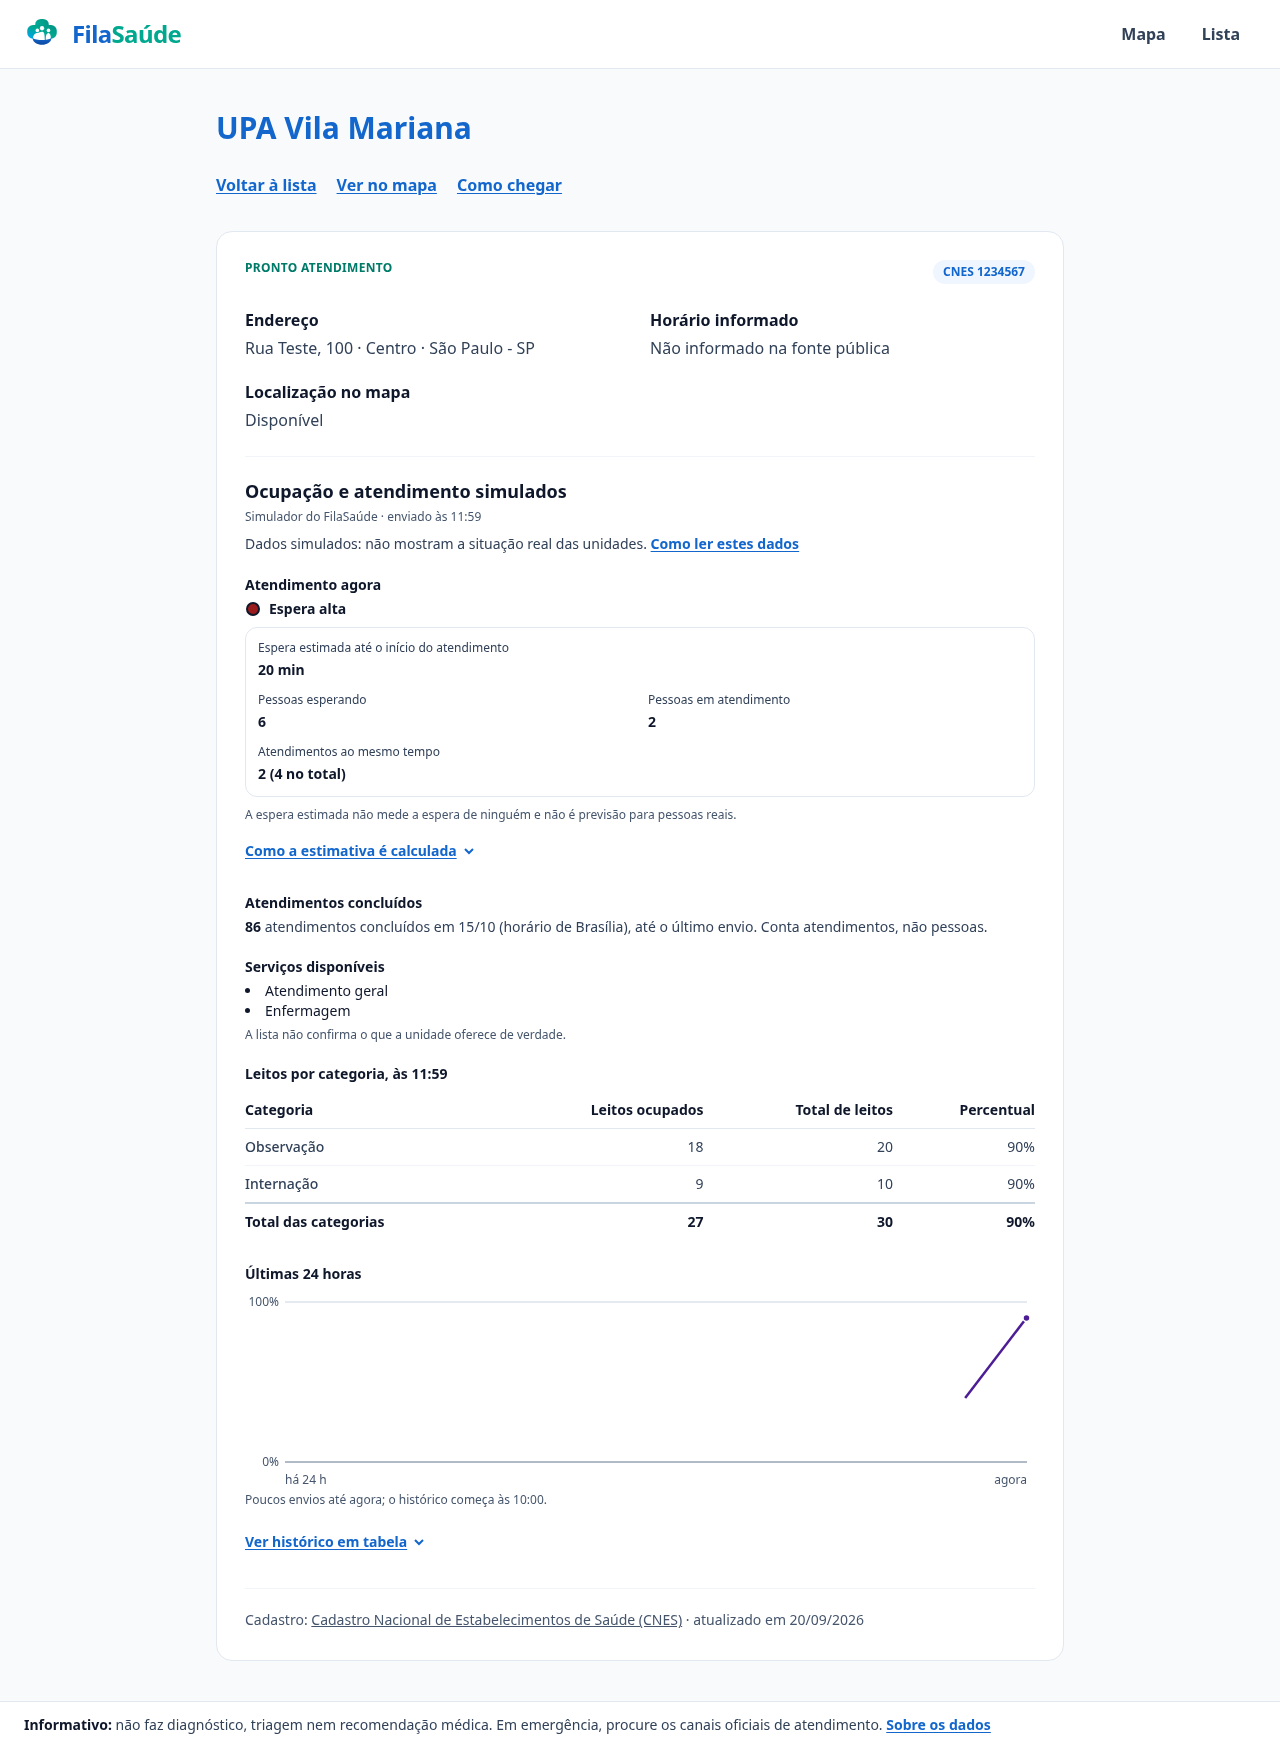
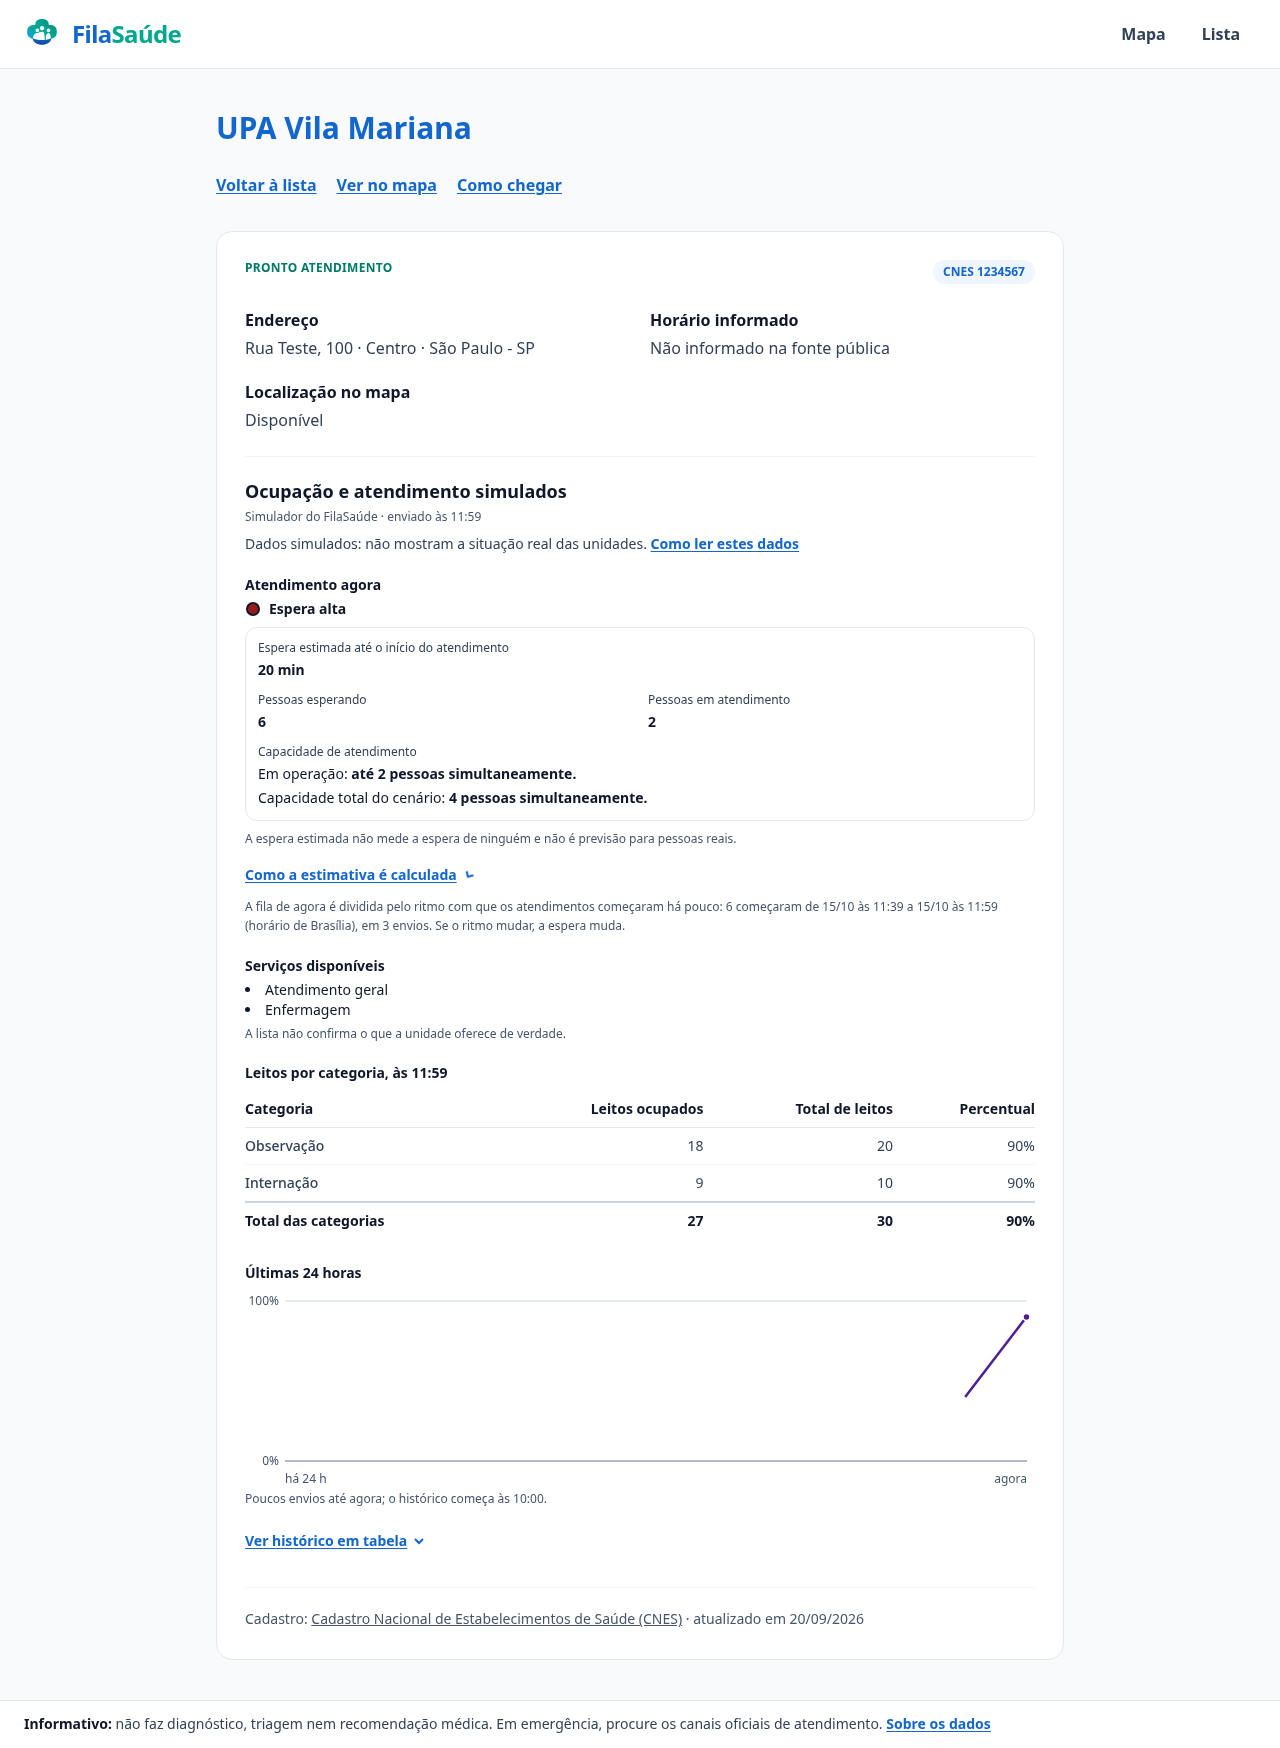
fix(web): esclarece capacidade ativa e total do cenário

diff --git a/e2e/occupancy-layer.spec.ts b/e2e/occupancy-layer.spec.ts
@@ -262,9 +262,7 @@ test("mantém o popup do norte visível ao abrir e ligar a ocupação", async ({
   expect(await panePosition()).toBe(before);
   const panel = page.getByRole("region", { name: "Controles do mapa" });
   await panel.getByText("Ocupação simulada", { exact: true }).click();
-  await expect(
-    popup.getByText("Espera alta", { exact: true }),
-  ).toBeVisible();
+  await expect(popup.getByText("Espera alta", { exact: true })).toBeVisible();
   await expect
     .poll(async () => {
       const box = await popup.boundingBox();
@@ -348,9 +346,7 @@ for (const viewport of [
     });
     await panel.getByText("Simulação", { exact: true }).click();
     await expect(toggle).toBeChecked();
-    await expect(
-      panel.getByText("Dados simulados, não reais."),
-    ).toBeVisible();
+    await expect(panel.getByText("Dados simulados, não reais.")).toBeVisible();
     const open = panel.getByRole("button", {
       name: /^Filtros e legenda/,
     });
@@ -491,9 +487,7 @@ for (const viewport of [
     await toggle.focus();
     await page.keyboard.press("Space");
     await expect(toggle).toBeChecked();
-    await expect(
-      panel.getByText("Dados simulados, não reais."),
-    ).toBeVisible();
+    await expect(panel.getByText("Dados simulados, não reais.")).toBeVisible();
 
     const after = await panel.boundingBox();
     const map = await page.locator(".leaflet-container").boundingBox();
@@ -924,7 +918,9 @@ test("SSE atualiza o histórico da unidade mesmo quando o estado atual não muda
     section.locator("details").getByRole("cell", { name: "20%", exact: true }),
   ).toBeVisible();
   expect(reads).toBeGreaterThan(beforeUpdate);
-  await expect(section.getByText("Espera alta", { exact: true }).first()).toBeVisible();
+  await expect(
+    section.getByText("Espera alta", { exact: true }).first(),
+  ).toBeVisible();
 });
 
 for (const viewport of [
@@ -1038,7 +1034,9 @@ test("a lista mobile mostra resultados e permite expandir filtros secundários",
   });
   await expect(expand).toHaveAttribute("aria-expanded", "false");
   await expect(
-    page.getByText("Dados simulados: não mostram a situação real das unidades."),
+    page.getByText(
+      "Dados simulados: não mostram a situação real das unidades.",
+    ),
   ).toBeVisible();
   const simulated = page.getByRole("checkbox", {
     name: "Mostrar só unidades com ocupação simulada",
@@ -1387,7 +1385,9 @@ for (const viewport of [
     await expect(unknown.locator('svg circle[fill="#94a3b8"]')).toHaveCount(1);
     await card.getByRole("link", { name: /Ver no mapa/ }).click();
     const popup = page.locator(".leaflet-popup");
-    await expect(popup.getByText("Espera baixa", { exact: true })).toBeVisible();
+    await expect(
+      popup.getByText("Espera baixa", { exact: true }),
+    ).toBeVisible();
     await expect(
       popup.getByText("Esperando 0 · Em atendimento 2"),
     ).toBeVisible();
@@ -1432,14 +1432,10 @@ for (const width of [320, 390, 844, 1280]) {
     const card = page
       .getByRole("article")
       .filter({ hasText: "UPA Vila Mariana" });
-    await expect(
-      card.getByText("Espera estimada: 20 min"),
-    ).toBeVisible();
+    await expect(card.getByText("Espera estimada: 20 min")).toBeVisible();
     await card.getByRole("link", { name: /Ver no mapa/ }).click();
     const popup = page.locator(".leaflet-popup");
-    await expect(
-      popup.getByText("Espera estimada: 20 min"),
-    ).toBeVisible();
+    await expect(popup.getByText("Espera estimada: 20 min")).toBeVisible();
     await popup.getByRole("link", { name: /Ver detalhes/ }).click();
     const section = page.getByRole("region", {
       name: "Ocupação e atendimento simulados",
@@ -1453,12 +1449,21 @@ for (const width of [320, 390, 844, 1280]) {
       }),
     });
     await expect(row.getByRole("definition")).toHaveText("20 min");
-    const simultaneous = section.locator("dl > div").filter({
-      has: page.getByText("Atendimentos ao mesmo tempo", { exact: true }),
-    });
-    await expect(simultaneous.getByRole("definition")).toHaveText(
-      "2 (4 no total)",
-    );
+    await expect(
+      section.getByText("Capacidade de atendimento", { exact: true }),
+    ).toBeVisible();
+    await expect(
+      section
+        .getByText("Em operação:", { exact: true })
+        .locator("..")
+        .getByRole("definition"),
+    ).toHaveText("até 2 pessoas simultaneamente.");
+    await expect(
+      section
+        .getByText("Capacidade total do cenário:", { exact: true })
+        .locator("..")
+        .getByRole("definition"),
+    ).toHaveText("4 pessoas simultaneamente.");
     await expect(
       section.getByText("Serviços disponíveis", { exact: true }),
     ).toBeVisible();
@@ -1484,6 +1489,10 @@ for (const width of [320, 390, 844, 1280]) {
         () => document.documentElement.scrollWidth <= innerWidth,
       ),
     ).toBe(true);
+    await page.screenshot({
+      path: `/tmp/filasaude-capacidade-pagina-${width}.png`,
+      fullPage: true,
+    });
     await testInfo.attach(`indicadores-${width}`, {
       body: await section.screenshot({
         path: `/tmp/filasaude-indicadores-${width}.png`,
@@ -1518,16 +1527,12 @@ test("expiração remove a estimativa dos resumos e indisponibilidade é explíc
   const card = page
     .getByRole("article")
     .filter({ hasText: "UPA Vila Mariana" });
-  await expect(
-    card.getByText("Espera estimada: 20 min"),
-  ).toBeVisible();
+  await expect(card.getByText("Espera estimada: 20 min")).toBeVisible();
   await emitOccupancyEvent(page, "occupancy.updated", {
     data: [{ ...current, confirmation: "stale" }],
     metadata,
   });
-  await expect(
-    card.getByText("Espera estimada: 20 min"),
-  ).toHaveCount(0);
+  await expect(card.getByText("Espera estimada: 20 min")).toHaveCount(0);
   await card.getByRole("link", { name: /Ver detalhes/ }).click();
   await expect(
     page.getByText("Indisponível: dados desatualizados", { exact: true }),
@@ -1542,7 +1547,9 @@ test("expiração remove a estimativa dos resumos e indisponibilidade é explíc
     metadata,
   });
   await expect(
-    page.getByText("Indisponível: ainda há poucos dados para calcular", { exact: true }),
+    page.getByText("Indisponível: ainda há poucos dados para calcular", {
+      exact: true,
+    }),
   ).toBeVisible();
   await expect(page.getByText("Não informados", { exact: true })).toBeVisible();
 });
@@ -1602,5 +1609,58 @@ for (const viewport of [
       card.getByText("Sem dados recentes", { exact: true }),
     ).toBeVisible();
     expect(occupancyReads).toBe(readsBeforeExpiry);
+  });
+}
+
+for (const [serviceSlots, installedServiceSlots, activeText, totalText] of [
+  [1, 1, "até 1 pessoa simultaneamente.", "1 pessoa simultaneamente."],
+  [2, undefined, "até 2 pessoas simultaneamente.", "Não informada."],
+  [undefined, 4, "Não informada.", "4 pessoas simultaneamente."],
+  [undefined, undefined, "Não informada.", "Não informada."],
+] as const) {
+  test(`capacidade distingue operação e total: ${serviceSlots}/${installedServiceSlots}`, async ({
+    page,
+  }) => {
+    await mockApi(page);
+    await page.route("**/api/occupancy", (route) =>
+      route.fulfill({
+        json: {
+          data: [
+            {
+              ...highOccupancy,
+              attendance: {
+                ...highOccupancy.attendance,
+                serviceSlots,
+                installedServiceSlots,
+              },
+            },
+          ],
+          metadata,
+        },
+      }),
+    );
+    await page.goto("/units?uf=SP");
+    await page.getByRole("switch", { name: "Ocupação simulada" }).focus();
+    await page.keyboard.press("Space");
+    await page
+      .getByRole("article")
+      .filter({ hasText: "UPA Vila Mariana" })
+      .getByRole("link", { name: /Ver detalhes/ })
+      .click();
+    const section = page.getByRole("region", {
+      name: "Ocupação e atendimento simulados",
+    });
+    await expect(
+      section
+        .getByText("Em operação:", { exact: true })
+        .locator("..")
+        .getByRole("definition"),
+    ).toHaveText(activeText);
+    await expect(
+      section
+        .getByText("Capacidade total do cenário:", { exact: true })
+        .locator("..")
+        .getByRole("definition"),
+    ).toHaveText(totalText);
   });
 }

diff --git a/apps/web/src/UnitOccupancySection.tsx b/apps/web/src/UnitOccupancySection.tsx
@@ -116,8 +116,7 @@ export function UnitOccupancySection({ unitCnes }: { unitCnes: string }) {
         Ocupação e atendimento simulados
       </h2>
       <p className="mt-1 text-xs text-slate-600">
-        {SIMULATION_SOURCE} ·{" "}
-        {isStale ? "último envio em " : "enviado às "}
+        {SIMULATION_SOURCE} · {isStale ? "último envio em " : "enviado às "}
         <time dateTime={current.observedAt}>
           {isStale
             ? formatDateTime(current.observedAt)
@@ -196,14 +195,10 @@ function AttendanceSummary({
     value === undefined ? NOT_INFORMED : String(value);
   const slots = attendance?.serviceSlots;
   const installed = attendance?.installedServiceSlots;
-  const simultaneous =
-    slots === undefined
-      ? installed === undefined
-        ? NOT_INFORMED
-        : `${NOT_INFORMED} (${installed} no total)`
-      : installed === undefined || installed === slots
-        ? String(slots)
-        : `${slots} (${installed} no total)`;
+  const capacity = (value: number | undefined) =>
+    value === undefined
+      ? "Não informada"
+      : `${value === 1 ? "1 pessoa" : `${value} pessoas`} simultaneamente`;
   const rows = [
     {
       label: "Espera estimada até o início do atendimento",
@@ -213,8 +208,22 @@ function AttendanceSummary({
     { label: "Pessoas esperando", value: count(attendance?.waiting) },
     { label: "Pessoas em atendimento", value: count(attendance?.inService) },
     {
-      label: "Atendimentos ao mesmo tempo",
-      value: simultaneous,
+      label: "Capacidade de atendimento",
+      value: (
+        <dl className="space-y-1 font-normal">
+          <div>
+            <dt className="inline">Em operação: </dt>
+            <dd className="inline font-semibold">
+              {slots === undefined ? "Não informada" : `até ${capacity(slots)}`}
+              .
+            </dd>
+          </div>
+          <div>
+            <dt className="inline">Capacidade total do cenário: </dt>
+            <dd className="inline font-semibold">{capacity(installed)}.</dd>
+          </div>
+        </dl>
+      ),
       wide: true,
     },
   ];
@@ -527,7 +536,9 @@ function HistoryChart({
                   x2={plotWidth}
                   y1={y}
                   y2={y}
-                  className={value === 100 ? "stroke-slate-300" : "stroke-slate-500"}
+                  className={
+                    value === 100 ? "stroke-slate-300" : "stroke-slate-500"
+                  }
                 />
                 <text
                   x={-6}
@@ -648,7 +659,12 @@ function Chevron() {
       viewBox="0 0 16 16"
       className="h-4 w-4 transition group-open:rotate-180 motion-reduce:transition-none"
     >
-      <path d="M4 6l4 4 4-4" fill="none" stroke="currentColor" strokeWidth="2" />
+      <path
+        d="M4 6l4 4 4-4"
+        fill="none"
+        stroke="currentColor"
+        strokeWidth="2"
+      />
     </svg>
   );
 }

diff --git a/.interface-design/system.md b/.interface-design/system.md
@@ -76,8 +76,10 @@
   Sem espera ou postos ativos informados, mostrar “Espera não informada”; zero
   pessoas esperando é um valor válido. Não usar leitos como fallback.
 - “Posto” fica só no código e nos contratos (`serviceSlots`): na tela é lido
-  como posto de saúde. A interface diz “Atendimentos ao mesmo tempo”
-  (`serviceSlots`, com `installedServiceSlots` como “no total”) e descreve as
+  como posto de saúde. A interface usa “Capacidade de atendimento”,
+  separando “Em operação: até N pessoas simultaneamente” (`serviceSlots`) de
+  “Capacidade total do cenário: N pessoas simultaneamente”
+  (`installedServiceSlots`), e descreve as
   faixas como a fila em relação à capacidade. A razão por posto não aparece.
 - Leitos por categoria e histórico de ocupação ficam como informações
   complementares no detalhe. A faixa de espera da tabela histórica usa a mesma

diff --git a/docs/guia-filasaude.md b/docs/guia-filasaude.md
@@ -288,8 +288,10 @@ recentes", para que um número antigo não pareça atual.
 Na página de detalhes, a seção **Ocupação e atendimento simulados** separa:
 
 - **Atendimento agora**: o nível da espera, a espera estimada, pessoas
-  esperando, pessoas em atendimento e quantos atendimentos a unidade faz ao
-  mesmo tempo (agora e no total);
+  esperando e pessoas em atendimento. Em **Capacidade de atendimento**,
+  “Em operação” mostra até quantas pessoas podem ser atendidas simultaneamente
+  agora; “Capacidade total do cenário” mostra o limite total simulado. Esses
+  valores não são a quantidade de pessoas em atendimento nem leitos;
 - **Como a estimativa é calculada**: toque para ver o método, o intervalo e a
   quantidade de envios considerados;
 - **Atendimentos concluídos**: o total do dia, em horário de Brasília;

diff --git a/docs/adr/0007-attendance-flow-and-color-synthesis.md b/docs/adr/0007-attendance-flow-and-color-synthesis.md
@@ -48,7 +48,8 @@ de capacidade.
   Cada bloco tem uma marca de simulação e a linha da fonte com o horário; a
   legenda mantém o aviso de que as cores não são classificação de risco, ordem
   de atendimento nem indicação de unidade. Na tela, “posto” virou
-  “atendimentos ao mesmo tempo”.
+  “Capacidade de atendimento”, com valores separados para “Em operação” e
+  “Capacidade total do cenário”, em pessoas simultaneamente.
 
 ## Alternativas e consequências
 
